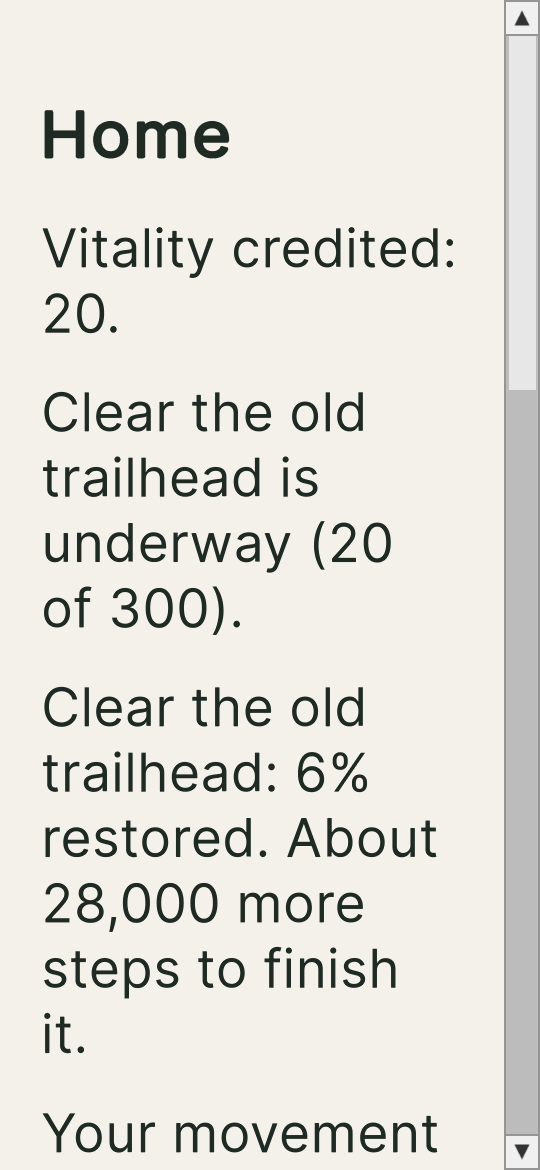
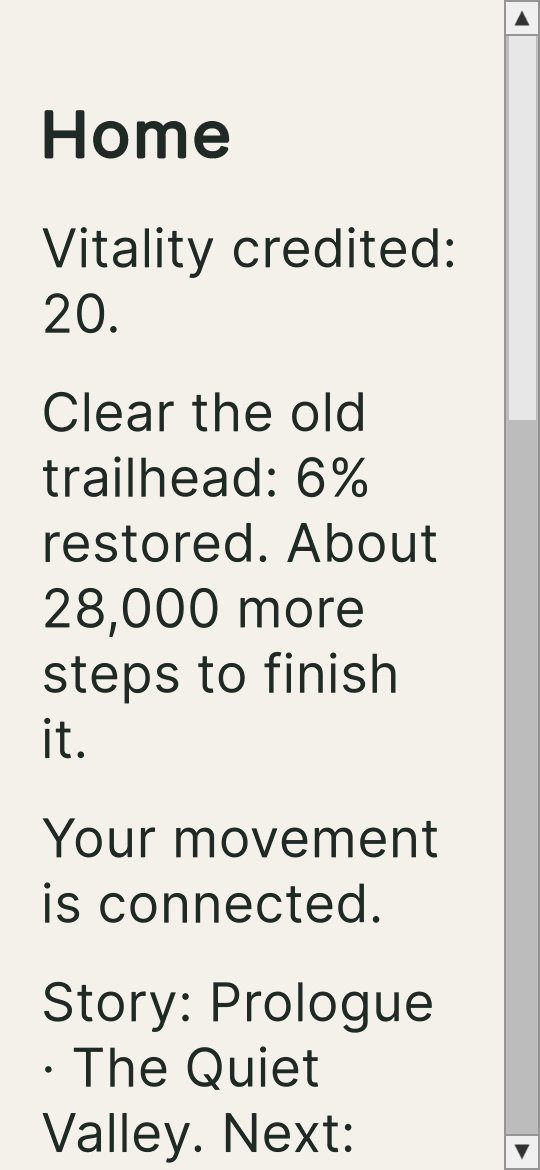
D-149: Home omits duplicate underway line when the payoff line shows

Changed region(s): [[0.0593, 0.3692, 0.8, 1.0], [0.9185, 0.3077, 1.0, 0.3692]]

diff --git a/src/WalkGame.Unity/Assets/Tests/EditMode/FirstSessionPayoffShellTests.cs b/src/WalkGame.Unity/Assets/Tests/EditMode/FirstSessionPayoffShellTests.cs
@@ -25,6 +25,7 @@ namespace WalkGame.Shell.Tests
             s.EnqueueProject(first.ProjectId);
             c.Invoke("nav:Home");
             Assert.IsFalse(c.Render().Lines.Any(IsPayoff), "nothing funded yet");
+            Assert.IsTrue(c.Render().Lines.Contains(s.GetGlance().RestoringNowSentence), "unfunded: the restoring-now line still says what is next");
 
             var now = DateTimeOffset.UtcNow;
             s.IngestFromSource(new SyntheticWalkingSource(2000), now.AddDays(-1), now);
@@ -34,6 +35,7 @@ namespace WalkGame.Shell.Tests
             c.Invoke("nav:Home");
             var home = c.Render();
             Assert.AreEqual(1, home.Lines.Count(IsPayoff), string.Join("|", home.Lines));
+            Assert.IsFalse(home.Lines.Contains(s.GetGlance().RestoringNowSentence), "D-149: funded project is not repeated as 'underway (n of m)': " + string.Join("|", home.Lines));
 
             c.Invoke("nav:ReturnSummary");
             var summary = c.Render();

diff --git a/src/WalkGame.Unity/Assets/Shell/ShellController.cs b/src/WalkGame.Unity/Assets/Shell/ShellController.cs
@@ -473,7 +473,9 @@ namespace WalkGame.Shell
                 && home.AttentionReason == HomeAttentionReason.NoProjectStartedYet;
             if (!firstRun) m.Lines.Add(glance.WhatChangedSentence);
             // D-106: the empty-state line below already says nothing is being restored; skip the duplicate.
-            if (!empty) m.Lines.Add(glance.RestoringNowSentence);
+            // D-149: once the active project is funded, the D-145 payoff line names it with its percent
+            // and steps to go, so "X is underway (n of m)" would say the same thing a third time.
+            if (!empty && glance.PayoffSentence == null) m.Lines.Add(glance.RestoringNowSentence);
             // D-145: first-session payoff. Any funded project shows its percent and the distance to
             // the next visible change, so even a 300-step walk visibly moves something.
             if (glance.PayoffSentence != null) m.Lines.Add(glance.PayoffSentence);

diff --git a/docs/DECISIONS.md b/docs/DECISIONS.md
@@ -2780,3 +2780,10 @@ Evidence: `docs/evidence/d108-platform-parity/editmode-results.xml`, EditMode 15
 **Verification.** Captures editor-rendered (llvmpipe). EditMode 237/237 (Unity-editor-tested, batch mode). Device UNVERIFIED (KI-002).
 
 **Save compatibility.** None (test/tooling only).
+
+## D-149 — Home no longer repeats a funded project three ways (2026-10-17)
+**Decision.** Resolves the D-148 observation. Once the D-145 payoff line shows ("{title}: n% restored. About N more steps ..."), Home omits the restoring-now line "{title} is underway (x of y)." for the same project; before anything is invested the restoring-now line still shows. The return summary is unchanged. OpenSpec `add-first-session-payoff` spec gains a requirement + scenario and task 2.2. Home payoff captures in `docs/evidence/d148-text-screens/` re-rendered after the change.
+
+**Tests.** `FirstSessionPayoffShellTests` extended (unfunded keeps restoring-now; funded drops it). EditMode 237/237 (Unity-editor-tested, batch mode). Captures editor-rendered. Device UNVERIFIED (KI-002).
+
+**Save compatibility.** None (display only; no save, schema, content version or hash change).

diff --git a/docs/evidence/d148-text-screens/README.md b/docs/evidence/d148-text-screens/README.md
@@ -3,7 +3,7 @@
 `tools/unity/capture-text-screens.sh` (Unity 6000.3.26f1 batch mode, software OpenGL llvmpipe under Xvfb, 540x1170 at panel scale 1.5), 2026-10-17.
 State `payoff`: fresh start, first available project queued, one 2,000-step first walk (D-145).
 
-- `home-payoff-editor-rendered.png` — Home with "Clear the old trailhead: 6% restored. About 28,000 more steps to finish it."
+- `home-payoff-editor-rendered.png` — Home (re-rendered after D-149) with "Clear the old trailhead: 6% restored. About 28,000 more steps to finish it."
 - `returnsummary-payoff-editor-rendered.png` — return summary with the same payoff line.
 - `settings-editor-rendered.png` — Settings at 1x text.
 - `home-payoff-2x-editor-rendered.png` — Home at 2x text (wraps, no clipping in the visible frame).

diff --git a/openspec/changes/add-first-session-payoff/specs/first-session-payoff/spec.md b/openspec/changes/add-first-session-payoff/specs/first-session-payoff/spec.md
@@ -19,3 +19,11 @@ When the active project has received Vitality and is not complete, Home and the 
 #### Scenario: Nothing funded
 - **WHEN** the active project has no Vitality invested
 - **THEN** no payoff line is shown
+
+### Requirement: Home does not repeat a funded project (D-149)
+
+When the payoff line is shown on Home, Home SHALL NOT also show the "{title} is underway ({invested} of {cost})." restoring-now line for the same project. Before anything is invested, the restoring-now line SHALL still be shown.
+
+#### Scenario: Funded first project
+- **WHEN** the first project has 20 of 300 Vitality invested
+- **THEN** Home shows "Clear the old trailhead: 6% restored. About 28,000 more steps to finish it." and not "Clear the old trailhead is underway (20 of 300)."

diff --git a/.agent/PLANNER_HANDOFF.md b/.agent/PLANNER_HANDOFF.md
@@ -241,3 +241,4 @@ For `/goal continue`: read repository instructions, this file, the execution pro
 ## Session note 2026-10-17 (grok1017d, D-147)
 - D-147: five accessibility invariants now iterate every `ShellScreen`; fixed missing button min-width. EditMode 236/236 (Unity-editor-tested). Device screen readers still UNVERIFIED (KI-002).
 - D-148: `tools/unity/capture-text-screens.sh` + `WG_CAPTURE_STATE=payoff`; PNGs in docs/evidence/d148-text-screens/ (editor-rendered).
+- D-149: Home drops the duplicate restoring-now line once the payoff line shows (OpenSpec add-first-session-payoff updated). Next candidates: "Vitality 0" in the Home resource line right after a walk reads as nothing earned (spent into the project) — consider wording; device a11y still KI-002.

diff --git a/docs/ROADMAP.md b/docs/ROADMAP.md
@@ -617,3 +617,4 @@ The project should prefer **fewer, larger, integrated campaigns** over fragmente
 - [~] L10n readiness (D-120, #103): `PlayerStrings` table plus a ratchet test; the rest of the migration is KI-023
 - [x] 2026-10-17 grok1017d: D-147 Region 1 accessibility invariants on every shell screen (2x text, 48 dp both dimensions, semantic names/reader labels, contrast, no motion); button min-width fix. EditMode 236 (Unity-editor-tested)
 - [x] 2026-10-17 grok1017d: D-148 batch-mode PNG captures of Home (D-145 payoff, 1x/2x), return summary and Settings under docs/evidence/d148-text-screens/ (editor-rendered)
+- [x] 2026-10-17 grok1017d: D-149 Home drops the duplicate "underway (x of y)" line once the payoff line shows (Unity-editor-tested)

diff --git a/openspec/changes/add-first-session-payoff/tasks.md b/openspec/changes/add-first-session-payoff/tasks.md
@@ -3,5 +3,6 @@
 - [x] 1.2 `HomeReadModel.ActiveProjectVisibleBuildStages` / `ActiveProjectPayoff`; `GlanceReadModel.PayoffSentence`.
 ## 2. Unity
 - [x] 2.1 Home and return-summary payoff line (EditMode `FirstSessionPayoffShellTests`).
+- [x] 2.2 D-149: Home drops the duplicate restoring-now line once the payoff line shows (EditMode `FirstSessionPayoffShellTests`).
 ## 3. Verify
 - [x] 3.1 `dotnet test`; pacing evidence (7 reproduced, 0 drifted); content compatibility; EditMode + PlayMode.
